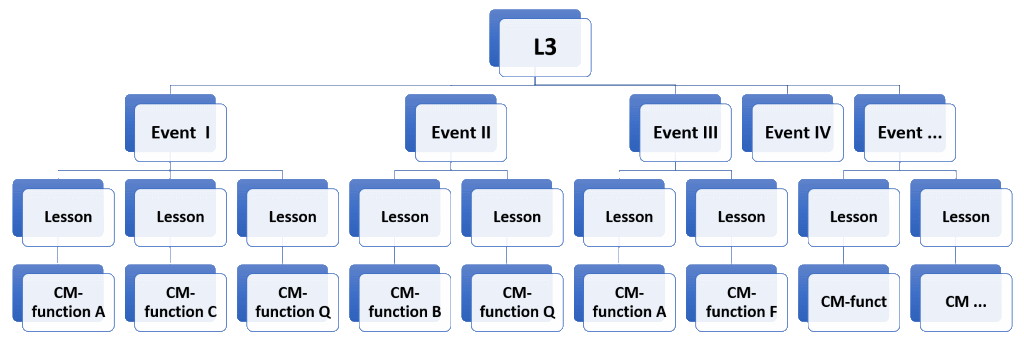
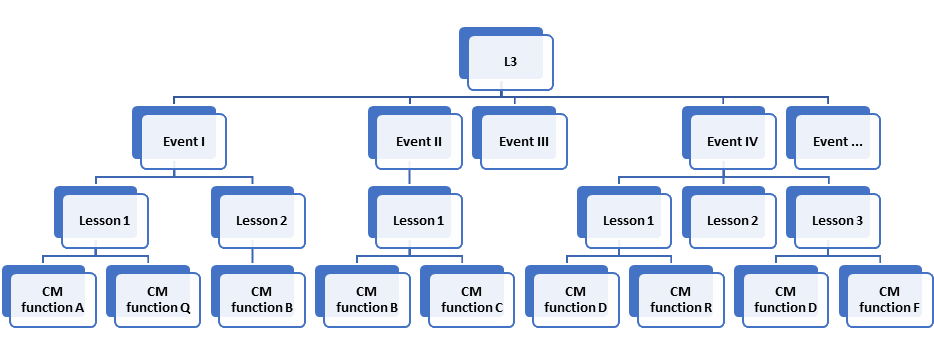
Updated documentation and manual

diff --git a/src/components/about/help-page.ts b/src/components/about/help-page.ts
@@ -5,28 +5,38 @@ import l3 from '../../assets/l3-schema.png';
 const md = `<h4 class="primary-text">Explanation of the Lessons Learned Library</h4>
 <h5 class="primary-text">Objective</h5>
 
-The Lessons Learned Library (L3) aims to support organisations in editing, maintaining, consulting and sharing lessons within the domain of crisis management (CM) and disaster risk reduction (DRR) in Europe. Thereby, sharing of lessons is not strictly limited to one organisation. L3 is especially intended to share lessons across organisations, across sectors, and across countries with the ultimate goal to improve CM and DRR in Europe by learning from each other’s experiences.
-Lessons may be collected from various types of events: routine, every day operations, crisis situations, training and exercises, experiments and tests, but also from risk management studies or preventive activities. Learning lessons can be considered as a structured approach to produce and apply experience-based knowledge to develop and improve doctrines, organisations, training, equipment, leadership, personnel and facilities to achieve more effective, efficient and safe operations.
+The Lessons Learned Library (L3) aims to support organisations in editing, maintaining, consulting and sharing lessons within the domain of crisis management (CM) and disaster risk reduction (DRR) in Europe. Thereby sharing of lessons is not strictly limited to one organisation. L3 is especially intended to share lessons across organisations, across sectors, and across countries with the ultimate goal to improve CM and DRR in Europe by learning from each other’s experiences.
 
-In simple terms, a lesson is a set of answers to questions such as: What was the situation?, What was the impact?, What went well in emergency management and is worthwhile to implement?, or What went wrong and which improvements are needed? To this purpose, users can provide precious information and lessons from events by adding a new event to the repository. By filling out a limited number of forms collected data and experiences can be shared with other emergency management communities in Europe.
+Lessons may be collected from various types of events: routine, every day operations, near incidents, crisis situations, training and exercises, experiments and tests, but also from risk management studies or other preventive activities. Learning lessons can be considered as a structured approach to produce and apply experience-based knowledge to develop and improve doctrines, organisations, training, equipment, leadership, personnel and facilities to achieve more effective, efficient and safe operations.
 
-Lessons may be of varying nature and of mixed interest outside the organisation or sector where they were collected. Therefore, a filtering mechanism enables users to select the kind of information they would like to consult: information about an event that took place (e.g. a Trial in the DRIVER+ project), lessons from a particular type of event (e.g. exercises), or from certain types of incidents (e.g. forest fires or bomb attacks), or from specific crisis management functions (e.g. evacuation or situation assessment).
+In simple terms, a lesson is a set of answers to questions such as: ‘What was the situation?’, ‘What was the impact?’, ‘What went well in emergency management and is worthwhile to implement?’, or ‘What went wrong and which improvements are needed?’. To this purpose, users can provide precious information and lessons from events by adding a new event to the repository. By filling out a limited number of forms collected data and experiences can be shared with other emergency management communities in Europe.
+
+Lessons may be of varying nature and of mixed interest outside the organisation or sector where they have been collected. Therefore, a filtering mechanism enables users to select the kind of information they would like to consult: information about an event that took place (e.g. a Trial in the DRIVER+ project), lessons from a particular type of event (e.g. exercises),  from certain types of incidents (e.g. forest fires or bomb attacks), or from specific crisis management functions (e.g. evacuation or situation assessment).
 
 <h5 class="primary-text">Functionalities and structure</h5>
 
-The main functionalities of the L3 are to add and edit crisis events and associated lessons from these events, and to find and consult specific events or lessons. Because the aim of the L3 is to share lessons across the CM community throughout Europe the user interface is in English. For the same reason users are requested (but are not obliged) to provide their information on events and lessons in English as well.
+The main functionalities of the L3 are to add and edit crisis events and associated lessons from these events, and to find and consult specific events or lessons. Because the aim of the L3 is to share lessons across the CM community throughout Europe the user interface is in English. For the same reason users are encouraged (but are not obliged) to provide their information on events and lessons in English as well.
 
-The L3 contains of a set of events and their associated lessons. As depicted in the adjacent figure, each event in the repository can contain 0, 1 or more lessons, while each lesson is linked to exactly one specific crisis management function. Please note that a certain function can be addressed by several lessons from one or more events.`;
+The L3 contains a set of events and their associated lessons. As depicted in the adjacent figure, each event in the repository can contain 0, 1 or more lessons, while each lesson in its turn can be linked to one or more crisis management functions. Note that a certain CM function can be addressed by different lessons from the same or from other events.`;
 
-const md2 = `An event is described by:
+const md2 = `<h5 class="primary-text">Events, lessons and CM functions</h5>
 
-- A summary, including a number of general data such as type of event (e.g. an incident or an exercise), and the date and place of the event;
--	More detailed information on the incident scenario and crisis management operations, such as the initial incident and cascading events, the (potential) impact, a map of the situation, involved organisations, and an overview of essential CM-functions that had to be executed;
+An **event** is described by:
+
+-	A summary, including some general data such as type of event (e.g. an incident or an exercise), and the date and place of the event.
+-	More detailed information on the incident scenario and crisis management operations, such as the initial incident and cascading events, the (potential) impact, a map of the situation, involved organisations, and an overview of critical CM functions that had to be executed.
 -	Lessons that have been learned from the event.
 
-A lesson consists of two sets of information. First of all, a description of the observation of positive or negative experiences concerning the applicable CM function during the event. This includes the performance of executing the CM function during the event, which is expressed in three criteria: the effectiveness of the CM function (quality), the efficiency of the CM function (cost aspects), and the risks to which responders have been exposed.
+A **lesson** consists of two sets of information:
 
-Secondly, the characterisation of a (potential) solution to improve the CM function based on the experiences during the event. This includes a description of the expected performance improvement of the CM function once it will have been implemented, as well as an indication of the impact reduction of the event’s incident.;`
+-	A description of the observation of positive or negative experiences concerning the applicable CM function during the event. This includes the performance of executing the CM function during the event, which is expressed by the effectiveness (adequacy) of executing the CM function on a 5 point-scale.
+-	The characterisation of a (potential) solution to improve the CM function based on the experiences during the event. This includes a description of the expected performance improvement of the CM function (also expressed on a 5 point-scale) once it will have been implemented. In addition an indication can be provided of the expected impact reduction by the solution. To this purpose five impact dimensions of UNISDR are used: numbers of victims, material damage, loss of services, social/economic losses, and environmental degradation.
+
+The L3 includes 24 **CM functions** to choose from. It concerns:
+
+-	_Operational CM functions_<br>Alerting (112), Crisis/Risk communication to society, Crowd management, Decontamination, Emergency Health Care, Evacuation & Shelter, Fight/Eliminate incident source (e.g. fire-fighting, stop a leakage), Law enforcement, Provide basic needs to the population, Remove debris, Rescue operations (SAR), and Restore critical services.
+-	_Operations enabling or supporting CM functions_<br>Command, Control and Coordination (C3)/Information management, Detection/Surveillance, International collaboration (incl. home nation support), Logistics/Resource management, Situation assessment, Social media mining, Traffic management, Up-scale/Down-scale of emergency services, and Volunteer management.
+-	_Preparatory CM functions_<br>Education & Training, Planning/Doctrine development, and Risk assessment.`;
 
 export const HelpPage = () => ({
   view: () =>

diff --git a/src/components/about/about-page.ts b/src/components/about/about-page.ts
@@ -10,43 +10,51 @@ The [DRIVER+](https://www.driver-project.eu) project has received funding from t
 
 const md2 = `<h4 class="primary-text">Quick reference</h4>
 
-<h5 class="primary-text">Adding an event</h5>
-
-An event can be created by clicking the \`+ ADD A NEW EVENT\` button on top of the main menu.
+<h5 class="primary-text">Users – Login</h5>
+Everyone can be **visitor** of the L3, and is allowed to select and consult the events that have been published on the L3. In addition, one can registrate himself/herself as a new L3 user. After registration he/she will receive the rights from the **administrator** to login as a regular **user**. He/she can do so clicking on the little man on the top right side, and providing his/her username and password. Thus being able to create new events or to edit events he/she has created before. In some cases the **administrator** can also provide the rights to login as an **editor**. As an editor the user has the option to edit all published events.
 
 <h5 class="primary-text">Selecting an event</h5>
 
-An event can be selected in the main menu by clicking the button of the concerned event from the list of events that are present in the repository. To this purpose, also filtering options at the left can be used to reduce the list of available events. Filtering can be done by:
+An event can be selected in the main menu by clicking the button of the concerned event from the list of events that are present in the repository. To this purpose, also filtering options at the left can be used to reduce the list of available events. Filtering can be done:
 
-- Text of event names or their short descriptions
-- Countries
-- Types of event
-- Incidents (initial or secondary)
-- Crisis management functions for which lessons have been defined
+- By using the text filter by entering key words.
+- By selecting countries, types of event, incidents (initial or secondary), and/or crisis management functions.
 
-After having selected an event, the document is presented with the most important information that already has been provided on this event. By clicking the \`EDIT DOCUMENT\` button, more detailed information can be consulted (or edited).
+After having selected an event, the document is presented with the most important information that already has been provided on this event. If required, this Event document can be printed (Ctrl P).
 
-<h5 class="primary-text">Editing an event</h5>
+In case one is logged in as an editor, the \`EDIT DOCUMENT\` button appears on the top right. By clicking this button, more detailed information can be consulted.
 
-After having selected an event it can be edited and consulted. The Content menu at the left shows the various sections to describe and to characterise the event and lessons. These sections are:
+<h5 class="primary-text">Adding an event</h5>
 
-- **General event data:** Name and general description of the event, including time and place.
-- **Incident characteristics:** Description of the initial incident and other (cascading) incidents (if any) during the event, including their (potential) impact.
-- **Geographic characteristics:** Geographic dimension and scale of the incident(s), including a map.
-- **Involved organisations:** Organisations that were involved in performing crisis management functions during the event.
-- **Critical CM functions:** Most essential crisis management functions that had to be executed to handle the incident(s).
-- **Lessons:** Add and describe lessons for single crisis management functions; lessons are described and can be characterised by their technical or non-technical nature, and their potential contribution to improve crisis management. 
-- **Publications:** References to relevant documents about the event or lessons.
-- **Multimedia sources:** References to relevant all kinds of multimedia data.
-- **Editors:** Authors who contributed to the contents of the event.
+An event can be created by clicking the \`+ ADD A NEW EVENT\` button on top of the main menu. After having added an event it can be edited.
 
-<h5 class="primary-text">Showing, saving or deleting an event</h5>
+<h5 class="primary-text">Editing or consulting an event</h5>
 
-Below the Content menu there are three buttons:
+The Content menu at the left shows the various sections to describe and to characterise the event and lessons. These sections are:
+- General event data: Name and general description of the event, including time and place.
+- Incident characteristics: Description of the initial incident and other (cascading) incidents (if any) during the event, including their (potential) impact.
+- Geographic characteristics: Geographic dimension and scale of the incident(s), including a map.
+- Involved organisations: Organisations that were involved in performing crisis management functions during the event.
+- Critical CM functions: essential crisis management functions that had to be executed to handle the incident(s) and that were typical for the lessons to be learned from this incident.
+- Lessons: Add and describe lessons for single crisis management functions; lessons are described and can be characterised by their technical or non-technical nature, and their potential contribution to improve crisis management.
+- Publications: References to relevant documents about the event or lessons.
+- Multimedia sources: References to relevant all kinds of multimedia data.
+- Editors: Authors who contributed to the contents of the event.
+
+<h5 class="primary-text">Showing or deleting an event</h5>
+
+Below the Content menu there are two buttons:
+
 - \`SHOW EVENT\` to jump to the Event document
-- \`SAVE EVENT\` to save all entered (or updated) data
 - \`DELETE EVENT\` to delete the event from the repository
-`;
+
+<h5 class="primary-text">Additional editors of an event</h5>
+
+The editor of a new event can also provide rights to edit an event to other persons who have editors-rights. This can be done by providing their e-mail addresses on the bottom left.
+
+<h5 class="primary-text">Publishing an event</h5>
+
+In case one is the user or editor of an event, he/she can decide to publish the event in the L3 by checking the box next to \`PUBLISH EVENT\` at top left of the Event document screen. Hereafter the event is publicly available. By checking the box again the event will be unpublished.`;
 
 export const AboutPage = () => ({
   view: () =>
